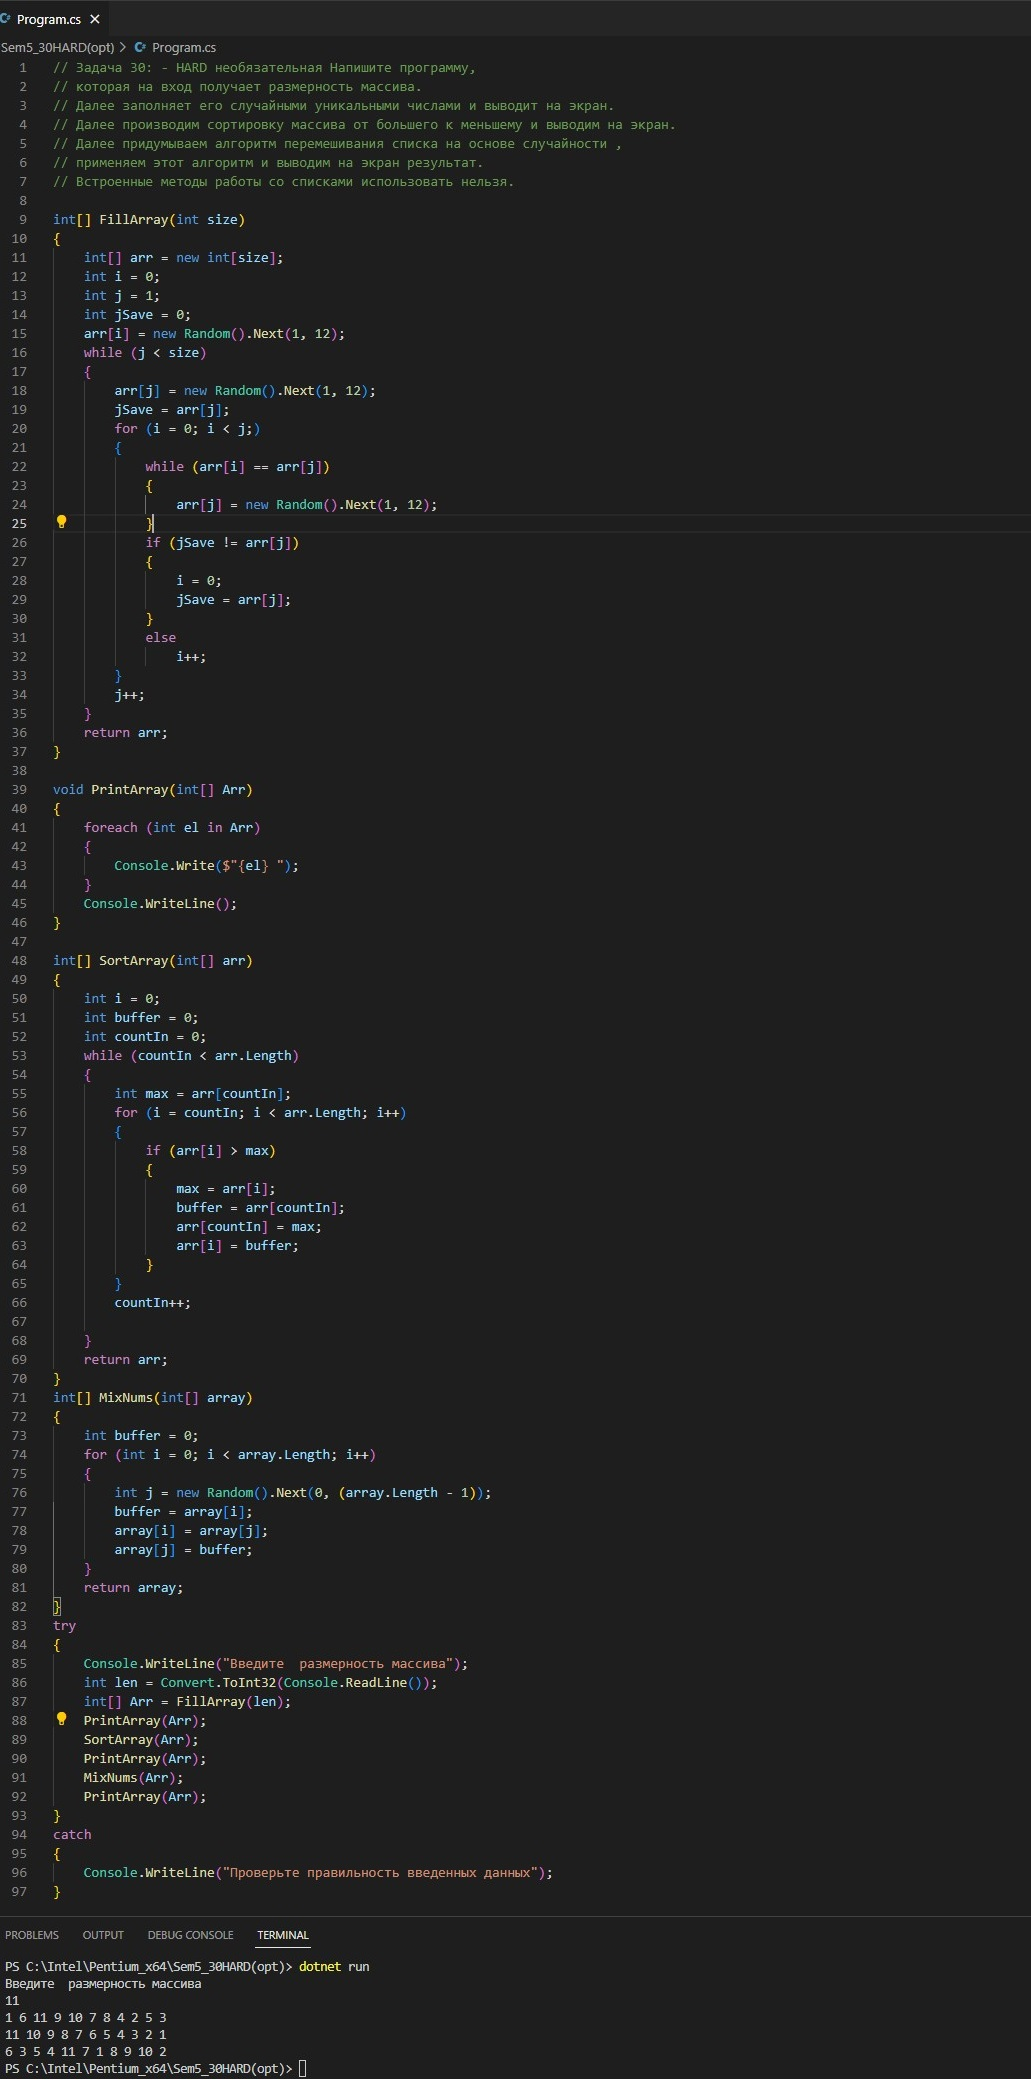
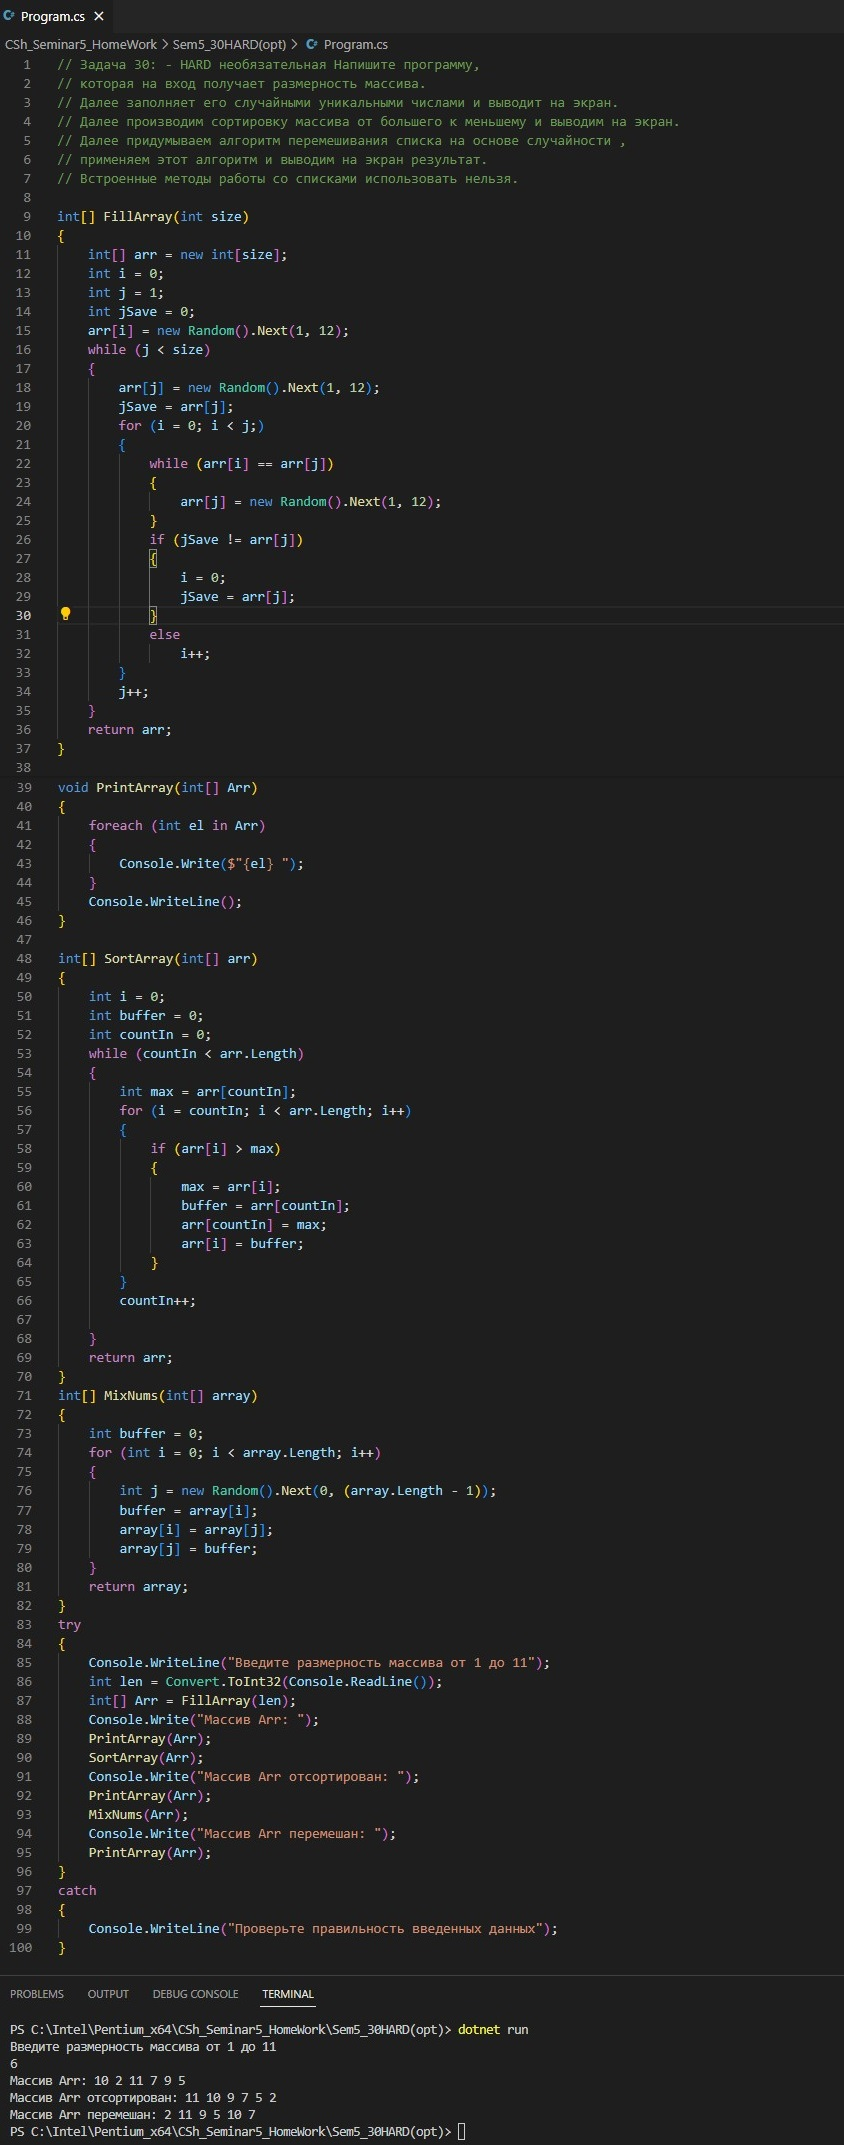
30 done

diff --git a/Sem5_30HARD(opt)/Program.cs b/Sem5_30HARD(opt)/Program.cs
@@ -85,10 +85,13 @@ try
     Console.WriteLine("Введите размерность массива от 1 до 11");
     int len = Convert.ToInt32(Console.ReadLine());
     int[] Arr = FillArray(len);
+    Console.Write("Массив Arr: ");
     PrintArray(Arr);
     SortArray(Arr);
+    Console.Write("Массив Arr отсортирован: ");
     PrintArray(Arr);
     MixNums(Arr);
+    Console.Write("Массив Arr перемешан: ");
     PrintArray(Arr);
 }
 catch
